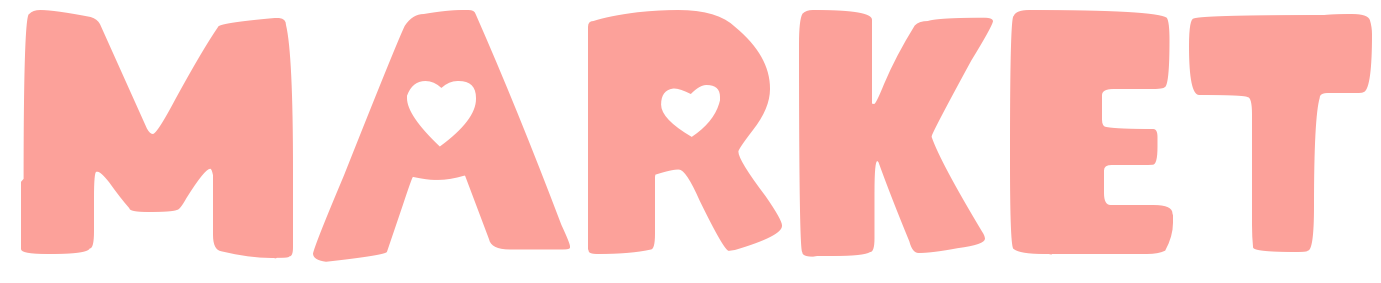
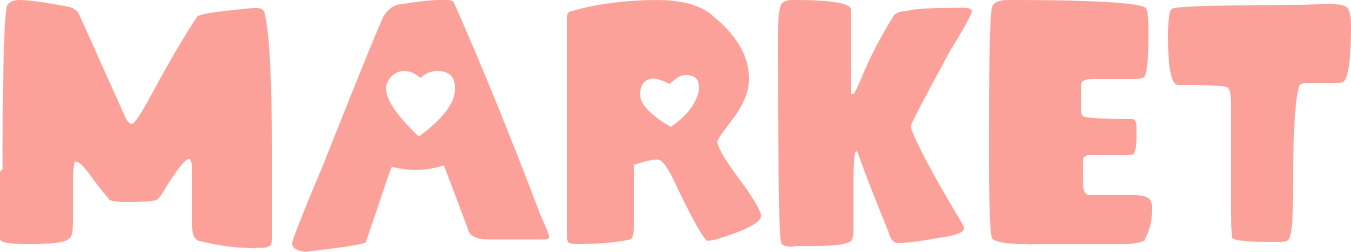
Final styling;

diff --git a/app/assets/stylesheets/application.css b/app/assets/stylesheets/application.css
@@ -86,6 +86,22 @@ article.container {
   padding: 1rem 3rem;
 }
 
+h1 {
+  font-size: 2rem;
+  color: #C66767;
+  margin: .5rem 0;
+}
+
+h2 {
+  font-size: 1.5rem;
+  color: #C66767;
+  margin: 2.8rem 0 0 0;
+}
+
+p {
+  color: #7A3333;
+}
+
 a {
   text-decoration: none;
   color: #C66767;
@@ -99,17 +115,18 @@ a:hover {
 
 .page-title {
   width: 100%;
-  /*height: 9rem;*/
   padding: .5rem;
   background-color: #F9F7F1; /** cream **/
   border-bottom: 1rem solid #FCA19A; /** salmon **/
   box-shadow: 0 .2rem #C66767; /** toasted-bagel **/
+  overflow: auto;
 }
 
 .page-title img {
   display: block;
-  width: 50%;
+  width: 55%;
   margin: .5rem auto;
+  padding-right: 4rem;
 }
 
 .create-button {
@@ -125,7 +142,6 @@ a:hover {
 .create-button:hover {
   background-color: #FBD6D3;
   border: .2rem solid #FCA19A;
-  /*color: #F9F7F1;*/
 }
 
 div.list {
@@ -149,8 +165,8 @@ div.list-item {
   display: block;
   margin: 0;
   padding: 1rem;
-  border-radius: .2rem
-  /*text-align: left;*/
+  border-radius: .2rem;
+  width: 100%;
 }
 
 .list-item:nth-child(2n+1) {
@@ -159,7 +175,15 @@ div.list-item {
 
 .list-info {
   color: #7A3333; /** burnt-bagel **/
+  font-size: .8rem;
+}
 
+.fa-home {
+  margin-left: .6rem;
+  /*position: absolute;*/
+  /*top: 4.5rem;*/
+  float: left;
+  font-size: 3rem;
 }
 
 /** HOME **/
@@ -176,9 +200,77 @@ nav ul li {
   width: 100%;
 }
 
+.far-mar-index div {
+  display: inline-block;
+  margin: .5%;
+}
+
 .far-mar-index img {
   border-radius: .25rem;
   border: .1rem solid;
-  border-color: #F59999;
+  border-color:#FCA19A;
   height: 9rem;
+}
+
+/** VENDORS **/
+.total {
+  width: 12rem;
+  margin: 2rem 1rem;
+  padding: 1rem;
+  background-color: #F9F7F1;
+  border: .2rem solid #FBD6D3;
+  border-radius: .2rem;
+  text-align: center;
+}
+
+
+/** FORMS **/
+
+input[type=submit] {
+ background-color: #C66767;
+ border: none;
+ padding: .5rem;
+ border-radius: .25rem;
+ color: #F9F7F1;
+ cursor: pointer;
+ font-size: 1rem;
+ margin-top: 1rem;
+}
+
+input[type=submit]:hover {
+  background-color: #FCA19A;
+}
+
+.vendor-products input[type=submit] {
+  padding: .2rem;
+  font-size: .8rem;
+}
+
+.vendor-products form {
+  display: inline-block;
+  padding: .2rem;
+}
+
+
+input[type=text] {
+ border-radius: 5px;
+ color: #7A3333;
+ cursor:pointer;
+ display: inline-block;
+ font-size: 16px;
+ margin-top: 5px;
+ margin-left: 10px;
+ padding:5px 15px;
+ width: 500px;
+}
+
+label {
+  color: #7A3333;
+}
+
+select {
+  width: 10rem;
+  height: 2rem;
+  background-color: #EDEDED;
+  font-size: 1rem;
 }

diff --git a/app/controllers/markets_controller.rb b/app/controllers/markets_controller.rb
@@ -1,18 +1,20 @@
 class MarketsController < ApplicationController
-  
+
   def index
-    @markets = Market.all 
+    @markets = Market.all
+    @main_page = true
   end
 
   def show
     @market = Market.find(params[:id])
     render :show
-    
+    @page_title = @market.name
+
   end
 
-  def new 
-    @market = Market.new 
-  end 
+  def new
+    @market = Market.new
+  end
 
   def create
     @market = Market.new(new_params[:market])
@@ -21,12 +23,12 @@ class MarketsController < ApplicationController
       redirect_to markets_path
     else
       render :new
-    end 
+    end
   end
-  
-  def edit 
+
+  def edit
     @market = Market.find(params[:id])
-  end 
+  end
 
   def update
     @market = Market.find(params[:id])
@@ -37,10 +39,10 @@ class MarketsController < ApplicationController
 
   def destroy
     Market.destroy(params[:id])
-    if params[:id] = true 
-      # message stating that the market has been deleted? 
+    if params[:id] = true
+      # message stating that the market has been deleted?
       redirect_to markets_path
-    end 
+    end
   end
 
   private

diff --git a/app/controllers/vendors_controller.rb b/app/controllers/vendors_controller.rb
@@ -4,11 +4,13 @@ class VendorsController < ApplicationController
 
   def index
     @vendors = Vendor.all
+    @main_page = true
   end
 
   def show
     @vendor = Vendor.find(params[:id])
     @vendor ||= Vendor.find(params[:vendor_id])
+    @page_title = @vendor.name
     @all_sales = @vendor.sales
     thirty_days = Time.now - ONE_MONTH
     @month_sales = @vendor.sales.where(purchase_time: thirty_days..Time.now)

diff --git a/app/controllers/far_mar_controller.rb b/app/controllers/far_mar_controller.rb
@@ -1,4 +1,5 @@
 class FarMarController < ApplicationController
   def index
+    @main_page = true
   end
 end
